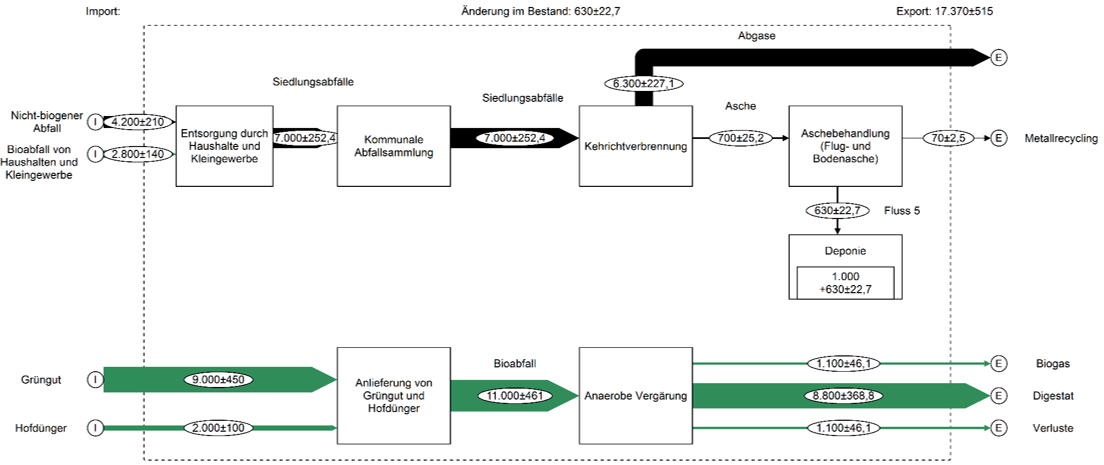
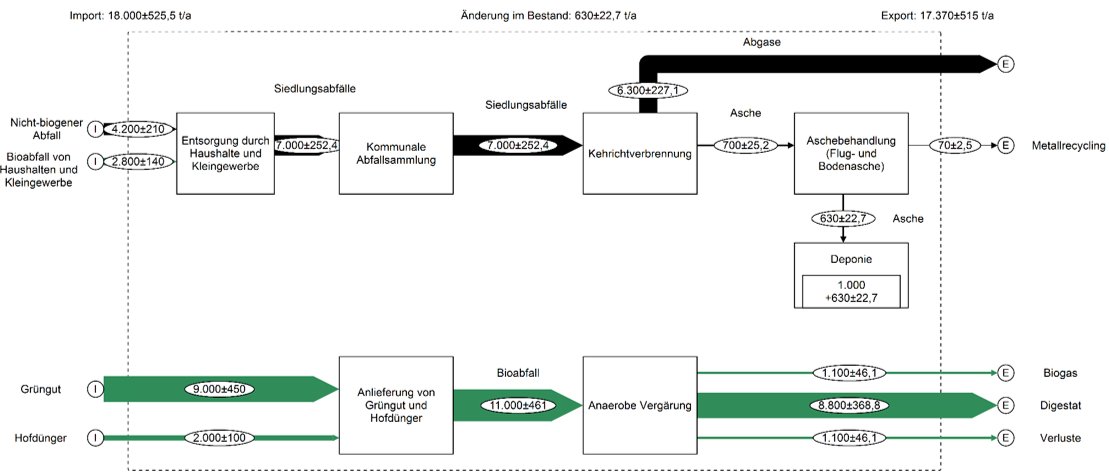
x

diff --git a/docs/Lektion2_2_LBD.html b/docs/Lektion2_2_LBD.html
@@ -260,13 +260,14 @@ ul.task-list li input[type="checkbox"] {
 <h2 class="anchored" data-anchor-id="vorgehen">Vorgehen</h2>
 <section id="öffnen-sie-die-stan-datei-aus-der-ersten-übung" class="level3">
 <h3 class="anchored" data-anchor-id="öffnen-sie-die-stan-datei-aus-der-ersten-übung">1. Öffnen Sie die STAN-Datei aus der ersten Übung</h3>
-<p>Alternativ können Sie auch die auf Moodle verfügbare STAN-Datei verwenden (Lektion 2: STAN-Datei aus Learning-by-doing).</p>
+<p>Alternativ können Sie auch die auf Moodle verfügbare STAN-Datei verwenden (Lektion 2: STAN-Datei aus Learning-by-doing). Ihr System sollte in Etwa so aussehen:</p>
+<p><img src="images/Lektion_1_2_1.png" class="img-fluid"></p>
 </section>
 <section id="prozess-kommunale-sammlung-von-bioabfällen" class="level3">
 <h3 class="anchored" data-anchor-id="prozess-kommunale-sammlung-von-bioabfällen">2. Prozess “Kommunale Sammlung von Bioabfällen”</h3>
 <p>Fügen Sie den Prozess “Kommunale Sammlung von Bioabfällen” hinzu und verbinden Sie diesen durch Flüsse mit den Prozessen “Entsorgung durch Haushalte und Kleingewerbe” und “Anaerobe Vergärung”.</p>
-<p>Nehmen Sie an, dass 100% der Nicht-biogenen Abfälle in die kommunale Abfallsammlung gehen.</p>
-<p>Nehmen Sie weiter an, dass 50% des Bioabfalls in die kommunale Sammlung von Bioabfällen und der Rest in die kommunale Abfallsammlung geht. Dies können Sie über die Transferkoeffizienten (Doppelklick auf Prozess) tun.</p>
+<p>Nehmen Sie an, dass 100% der nicht-biogenen Abfälle in die kommunale Abfallsammlung gehen.</p>
+<p>Nehmen Sie weiter an, dass 50% des Bioabfalls von Haushalten und Kleingewerbe in die kommunale Sammlung von Bioabfällen und der Rest in die kommunale Abfallsammlung geht. Dies können Sie über die Transferkoeffizienten (Doppelklick auf Prozess) implementieren.</p>
 <div class="quarto-figure quarto-figure-center">
 <figure class="figure">
 <p><img src="images/Lektion_2_2_1.png" class="img-fluid figure-img" width="668"></p>
@@ -291,27 +292,28 @@ ul.task-list li input[type="checkbox"] {
 <li><p>0.5% +/- 0.2% in allen Bioabfällen (kommunaler Bioabfall, Grüngut, Hofdünger)</p></li>
 <li><p>0% in Nicht-biogenem Abfall</p></li>
 </ul>
+<p><img src="images/Lektion_2_2_4.png" class="img-fluid"></p>
 </section>
 <section id="das-modell-neu-berechnen-für-beide-ebenen" class="level3">
 <h3 class="anchored" data-anchor-id="das-modell-neu-berechnen-für-beide-ebenen">4. Das Modell neu berechnen für beide Ebenen</h3>
 <p>Nun können Sie das Modell neu berechnen für die Ebene Stickstoff.</p>
-<p><img src="images/Lektion_2_2_4.png" class="img-fluid"></p>
-<p>Sie werden feststellen, dass verschiedene Flüsse nicht berechnet werden können. Dies liegt daran, dass in den Prozessen für die Ebene Stickstoff auch Transferkoeffizienten eingegen werden müssen. Es werden nicht automatisch die Transferkoeffizienten der Güter-Ebene übernommen, da diese für jede Substanz spezifisch sind.</p>
 <p><img src="images/Lektion_2_2_5.png" class="img-fluid"></p>
+<p>Sie werden feststellen, dass verschiedene Flüsse nicht berechnet werden. Dies liegt daran, dass in den Prozessen für die Ebene Stickstoff auch Transferkoeffizienten eingegen werden müssen. Es werden nicht automatisch die Transferkoeffizienten der Güter-Ebene übernommen, da diese für jede Substanz spezifisch sind.</p>
+<p><img src="images/Lektion_2_2_6.png" class="img-fluid"></p>
 </section>
 <section id="transferkoeffizienten-für-die-ebene-stickstoff-eingeben" class="level3">
 <h3 class="anchored" data-anchor-id="transferkoeffizienten-für-die-ebene-stickstoff-eingeben">5. Transferkoeffizienten für die Ebene Stickstoff eingeben</h3>
 <p>Um das gesamte System berechnen zu können, geben wir nun die Transferkoeffizenten folgendermassen ein (Prozent der Input-Stickstoffflüsse in den Prozess):</p>
 <ul>
 <li><p><strong>Anaerobe Vergärung:</strong> 10% in Biogas, 69% ins Digestat, 21% Verluste (z.B. Emissionen in die Luft während der Nachkompostierung des Digestats). Wir nehmen hier Trockenverärung an und die Werte basieren auf <a href="https://www.sciencedirect.com/science/article/pii/S0956053X17301769?via%3Dihub">Jensen et al.&nbsp;2017</a>.</p></li>
-<li><p><strong>Kehrichtverbrennung:</strong> 90% in Abgas und 10% in Asche (grobe Schätzung).</p></li>
+<li><p><strong>Kehrichtverbrennung:</strong> 90% in Abgas und 10% in Asche (grobe Schätzung). Dies ist eine Vereinfachtung, da sich in der Realität durch die veränderte Zusammensetzung des verbrannten Abfalls (weniger Bioabfall) auch die Transferkoeffizienten verändern würden.</p></li>
 <li><p><strong>Aschebehandlung:</strong> 0% in Metallrecycling, 100% in Deponie.</p></li>
 </ul>
 </section>
 <section id="exportieren-sie-das-finale-modell-als-bild" class="level3">
 <h3 class="anchored" data-anchor-id="exportieren-sie-das-finale-modell-als-bild">6. Exportieren Sie das finale Modell als Bild</h3>
 <p>Sie können das STAN-Modell nun exportieren via Datei –&gt; Systembild exportieren. Dieses sollte etwa so aussehen für Stickstoffflüsse:</p>
-<p><img src="images/Lektion_2_2_6.png" class="img-fluid"></p>
+<p><img src="images/Lektion_2_2_7.png" class="img-fluid"></p>
 
 
 </section>

diff --git a/docs/Lektion2_3_Workshop.html b/docs/Lektion2_3_Workshop.html
@@ -249,7 +249,7 @@ ul.task-list li input[type="checkbox"] {
 <ul>
 <li><p>Welche Mengen an N und P erwarten Sie jährlich im Digestat der anaeroben Vergärung?</p></li>
 <li><p>Was wären mögliche Abnehmer des Digestats?</p></li>
-<li><p>Wo sehen Sie mögliche Schwierigkeiten? Erwarten Sie z.B. Umweltbelastungen durch die Nutzung von Digestat?</p></li>
+<li><p>Wo sehen Sie mögliche Schwierigkeiten? Erwarten Sie z.B. Umweltbelastungen durch die Nutzung von Digestat? Wenn ja, welche?</p></li>
 </ul>
 </section>
 <section id="section" class="level1">
